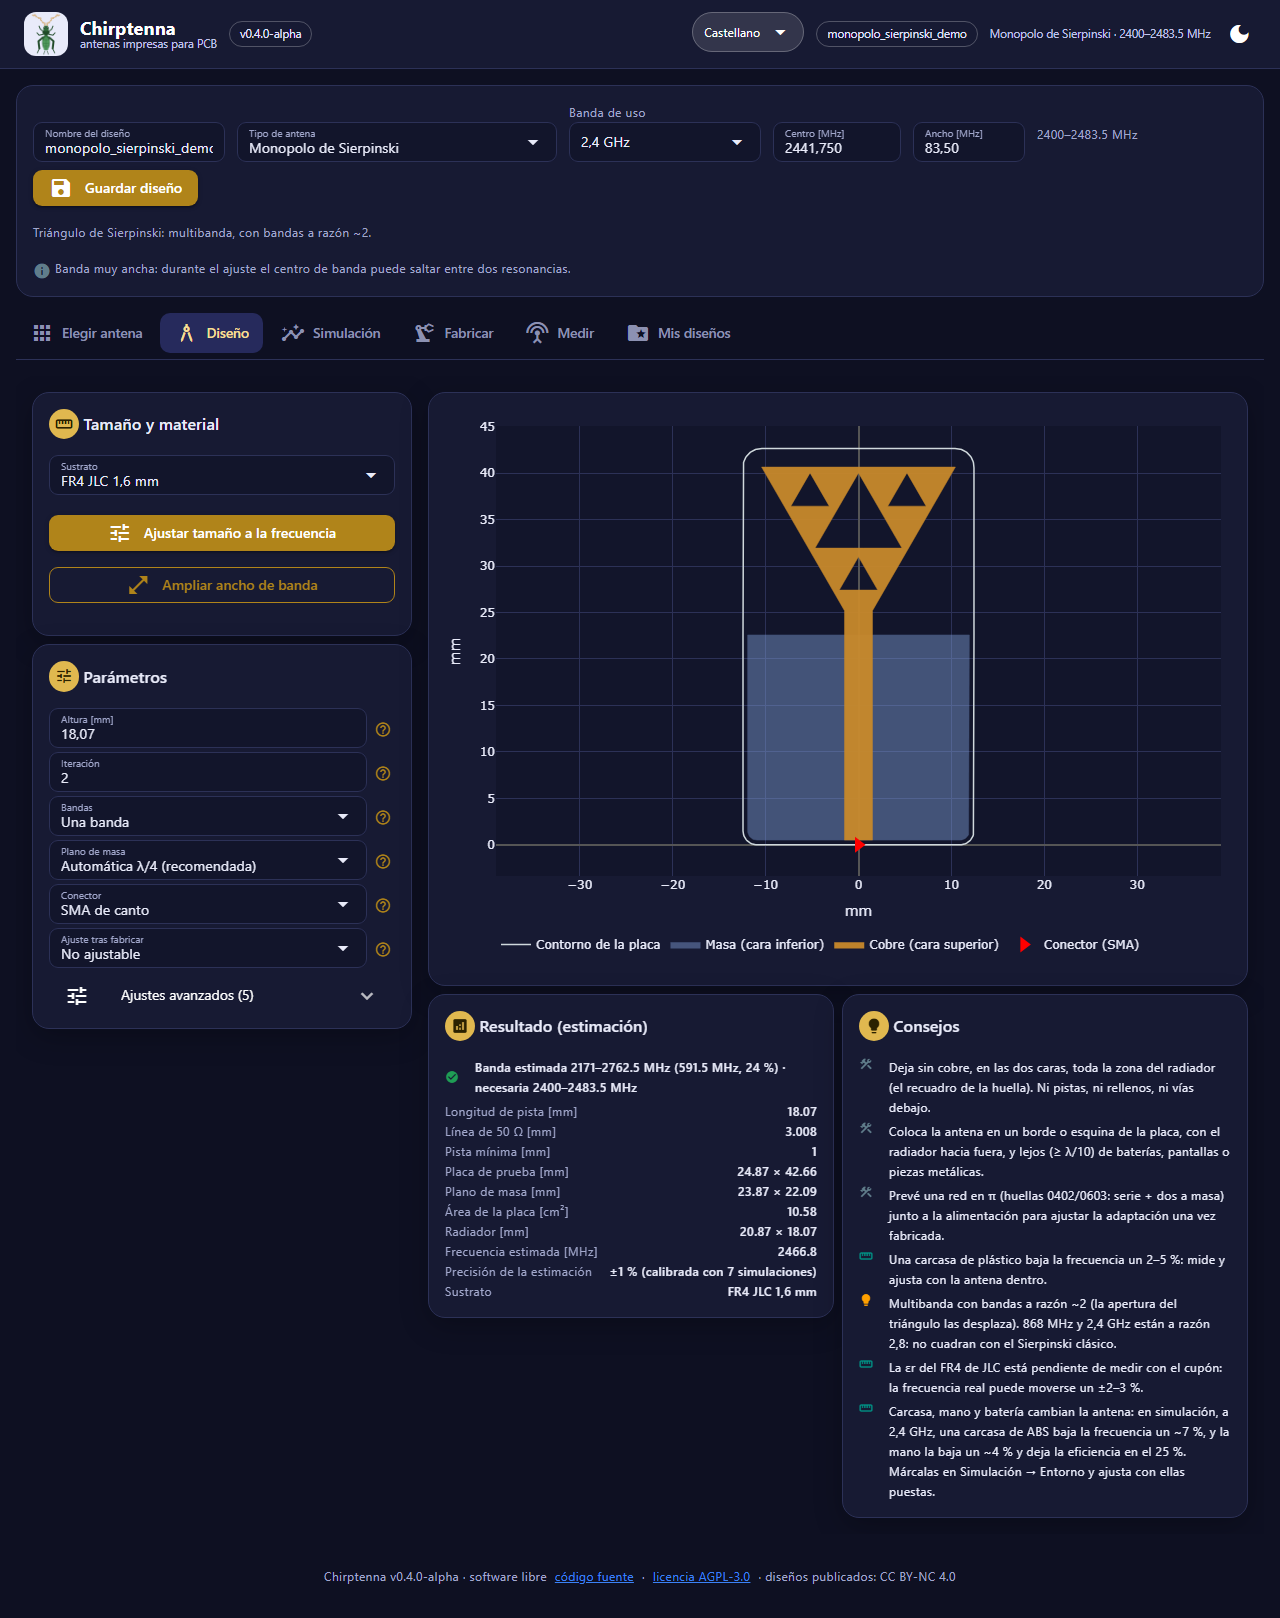
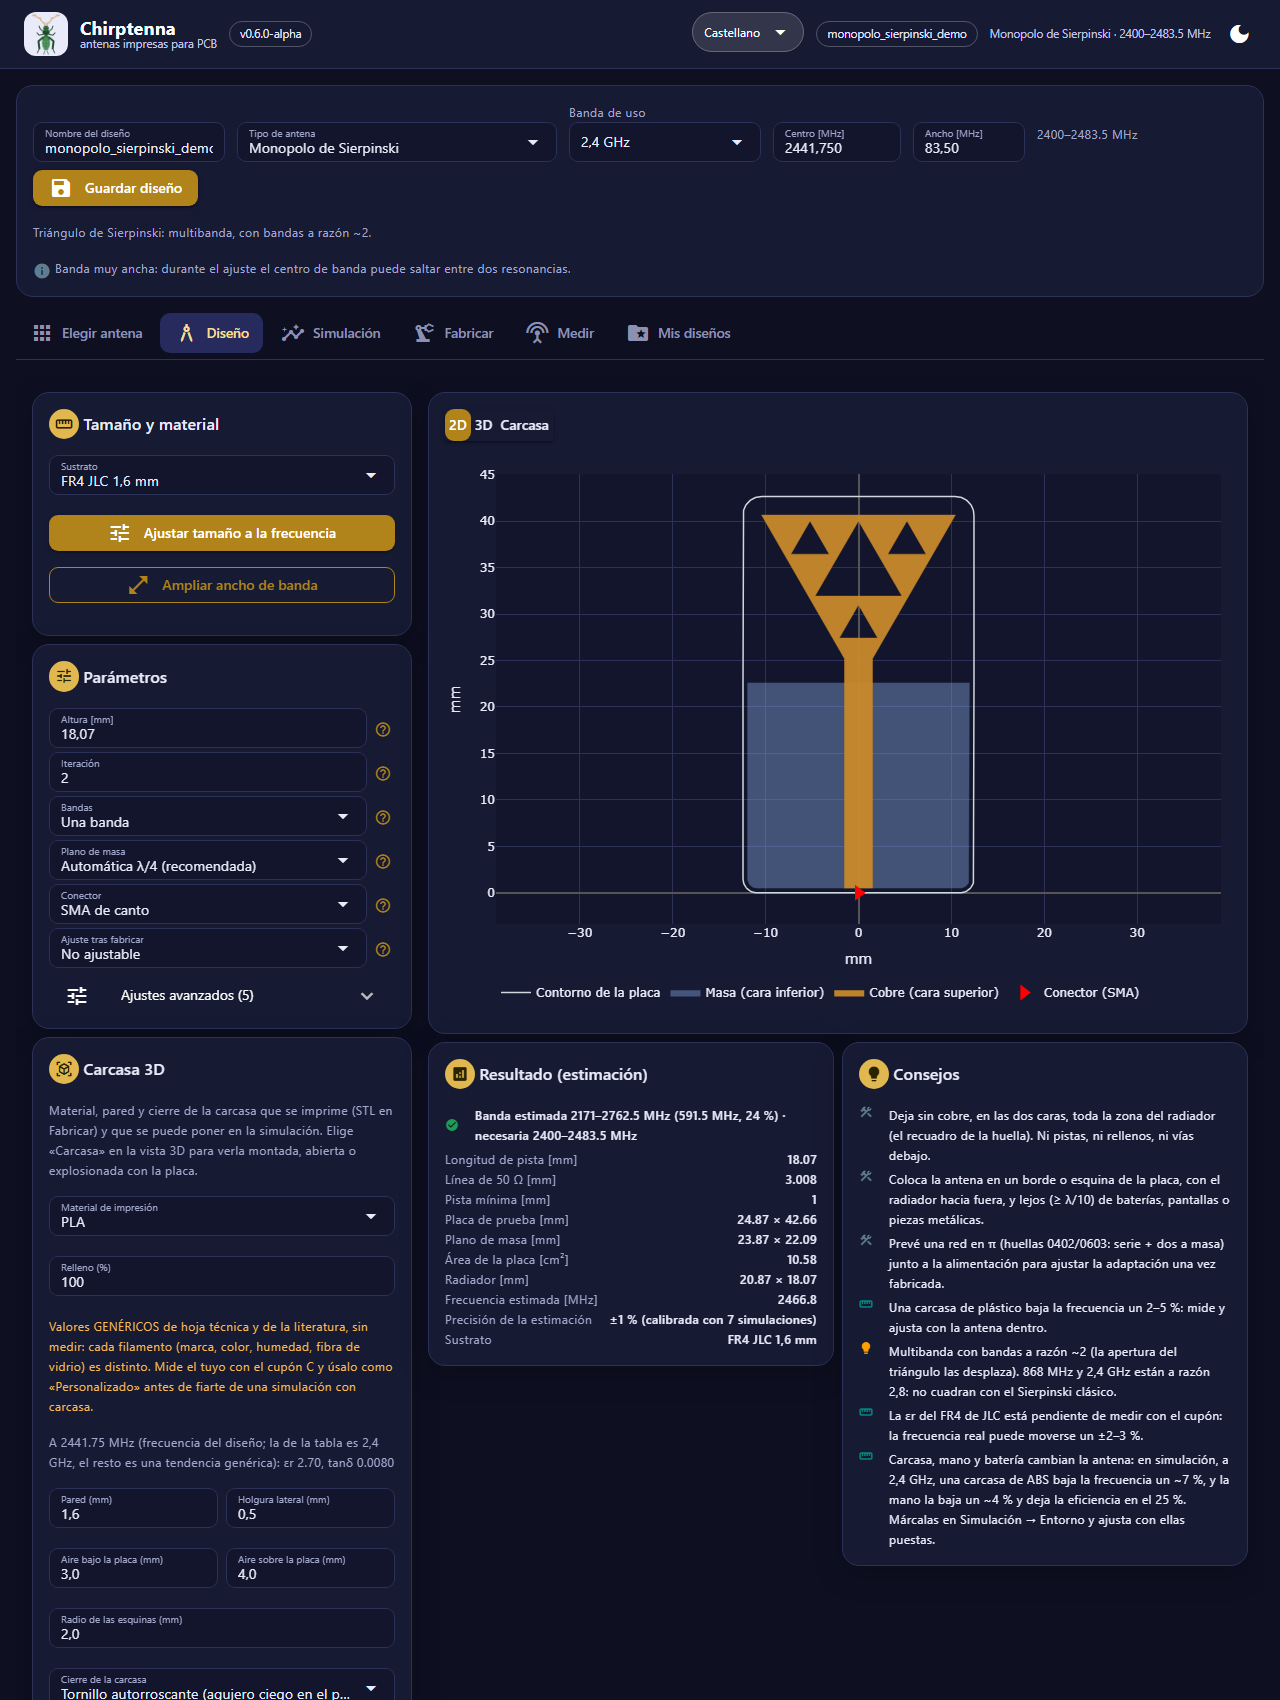
Capturas de la 0.6.0, consejo de la er al dia y CHANGELOG listo para la etiqueta
Capturas del README rehechas con herramientas/lanzar_app_claude.py (deshace
la virtualizacion de rutas de la sesion de Claude para que Plotly cargue).
El consejo y la nota del FR4 dicen que la er no esta cerrada (4,2-5,0 en las
placas medidas). Lo de Sin publicar pasa a la seccion 0.6.0-alpha.

diff --git a/herramientas/lanzar_app_claude.py b/herramientas/lanzar_app_claude.py
@@ -1,0 +1,28 @@
+"""Arranca gui/app.py deshaciendo la virtualización de rutas de la app de Claude (lección 49 de CLAUDE.md):
+Path.resolve() de un archivo del venv da ...\\Packages\\Claude_*\\LocalCache\\Local\\..., la de su carpeta no, y NiceGUI da 403
+a Plotly. Solo hace falta en la sesión de Claude; en el ordenador del usuario se lanza gui/app.py directamente.
+
+    python herramientas/lanzar_app_claude.py [argumentos de gui/app.py]        (desde la raíz del proyecto)
+    python herramientas/capturas_readme.py --lanzador herramientas/lanzar_app_claude.py
+"""
+import os
+import pathlib
+import re
+import runpy
+import sys
+
+_LOCAL = os.environ['LOCALAPPDATA']
+_PATRON = re.compile(re.escape(_LOCAL) + r'\\Packages\\Claude_[^\\]+\\LocalCache\\Local', re.IGNORECASE)
+_original = pathlib.Path.resolve
+
+
+def _resolve(self, strict=False):
+    r = _original(self, strict=strict)
+    s = _PATRON.sub(lambda m: _LOCAL, str(r))
+    return type(r)(s) if s != str(r) else r
+
+
+pathlib.Path.resolve = _resolve
+app = os.path.join(os.getcwd(), 'gui', 'app.py')
+sys.argv = [app] + sys.argv[1:]
+runpy.run_path(app, run_name='__main__')

diff --git a/antenas/consejos.py b/antenas/consejos.py
@@ -145,8 +145,8 @@ def consejos(antena, f_obj=None, banda=None):
         out.append(('diseño', tr('Por encima de ~3 GHz el FR4 pierde bastante y su εr varía entre lotes: '
                               'considera RO4350B.')))
     if 'FR4' in sustrato:
-        out.append(('medida', tr('La εr del FR4 de JLC está pendiente de medir con el cupón: la frecuencia real '
-                              'puede moverse un ±2–3 %.')))
+        out.append(('medida', tr('La εr del FR4 de JLC aún no está cerrada: las placas medidas dan entre 4,2 y 5,0 (el programa usa '
+                              '4,5), así que la frecuencia real puede moverse un ±2–3 %.')))
     if 'PTFE' in sustrato:
         out.append(('medida', tr('La εr y la tanδ del PTFE son las del laminador (sin medir) y JLC no publica tolerancias: '
                               'mide la frecuencia real con el cupón. Pide la placa en su servicio de alta frecuencia (2 capas, ENIG).')))

diff --git a/antenas/materiales.py b/antenas/materiales.py
@@ -35,7 +35,7 @@ class Sustrato:
 # εr del FR4: valor de la calculadora de impedancias de JLC para 2 capas (pendiente de
 # medir con el cupón). RO4350B: εr "de diseño" de Rogers (3,66), no la de proceso (3,48).
 SUSTRATOS = {
-    'FR4 JLC 1,6 mm': Sustrato('FR4 JLC 1,6 mm', 4.5, 0.02, 1.6, nota='εr pendiente de medir con el cupón'),
+    'FR4 JLC 1,6 mm': Sustrato('FR4 JLC 1,6 mm', 4.5, 0.02, 1.6, nota='εr 4,5 sin cerrar: las placas medidas dan 4,2–5,0'),
     'FR4 JLC 1,2 mm': Sustrato('FR4 JLC 1,2 mm', 4.5, 0.02, 1.2),
     'FR4 JLC 1,0 mm': Sustrato('FR4 JLC 1,0 mm', 4.5, 0.02, 1.0),
     'FR4 JLC 0,8 mm': Sustrato('FR4 JLC 0,8 mm', 4.5, 0.02, 0.8),

diff --git a/CLAUDE.md b/CLAUDE.md
@@ -356,12 +356,13 @@ archivos modificados después de la última revisión. La marca de esa revisión
     `pestanas` (cada una con su variante `.body--dark`). **Diseño visual (13-11, inspirado en compilador.albacetemesh.es)**: fondo índigo profundo con acentos dorados tipo ENIG (como un PCB; se evitó el verde para no parecerse a Meshtastic), tarjetas de 17 px con borde, cabecera
     con degradado, pestañas en píldora, portada con «eyebrow» en la galería. Todo con variables CSS de `body.body--light`/`body.body--dark` (`--fondo`, `--tarjeta`, `--texto`,
     `--muted`, `--linea`, `--acento`, `--suave`…) en el `ui.add_css` de `gui/app.py`: usar esas variables en lugar de colores sueltos; los campos son `outlined dense` por
-    `default_props`. Tras tocar el CSS hay que **reiniciar el servidor** (no recarga). Las capturas de `docs/capturas/` (README y manuales) se regeneran con `herramientas/capturas_readme.py` (Edge sin ventana por CDP con espera real: `--screenshot` con tiempo virtual o `--timeout` sale a medio pintar y sin Plotly); datan del 14-11 (diseño nuevo).
+    `default_props`. Tras tocar el CSS hay que **reiniciar el servidor** (no recarga). Las capturas de `docs/capturas/` (README y manuales) se regeneran con `herramientas/capturas_readme.py` (Edge sin ventana por CDP con espera real: `--screenshot` con tiempo virtual o `--timeout` sale a medio pintar y sin Plotly); rehechas el 24-11 (0.6.0, con `--lanzador herramientas/lanzar_app_claude.py`).
 49. **Entorno de la sesión de Claude** (no del usuario): el venv `%LOCALAPPDATA%\antenas` lo creó un proceso de la app de
     Claude y vive virtualizado en `AppData\Local\Packages\Claude_…\LocalCache`; `Path.resolve()` de un archivo da esa ruta
     y la de su carpeta no. Consecuencias: NiceGUI responde **403** a sus módulos ESM (Plotly sale en blanco) y pip falla
-    («Resource name escapes package»). Para verificar la interfaz aquí, lanzarla con un envoltorio que acepte las dos
-    rutas en `is_relative_to` (launch.json «escritorio-prueba», script en el scratchpad); los menús de Quasar no se abren
+    («Resource name escapes package»). Para verificar la interfaz aquí, lanzarla con **`herramientas/lanzar_app_claude.py`**
+    (24-11: cambia `Path.resolve` para devolver la ruta sin virtualizar; con él Plotly sale y `capturas_readme.py --lanzador`
+    funciona); los menús de Quasar no se abren
     con el panel del navegador oculto: usar Edge sin ventana por CDP. En el ordenador del usuario no pasa nada de esto.
 48. **Versión web (Pyodide)**: todas las versiones de Pyodide (0.27–0.29) traen shapely 2.0.7 con **GEOS 3.12**, más
     antiguo que el de escritorio, y uniones o diferencias delicadas (Sierpinski, aperturas de `fabricacion.comprobar`)
@@ -541,8 +542,7 @@ archivos modificados después de la última revisión. La marca de esa revisión
     (mismas coordenadas que la simulación: θ desde +Z, φ desde +X) y la flecha del máximo; es lo que se ve en Simulación (sustituye a `graficas.diagrama_3d`, que queda sin uso en la interfaz).
     El grosor se exagera a ≥ 1,2 % del lado mayor (se dice en el título) y la cámara se aleja con la relación de aspecto. En Diseño: conmutador 2D/3D y casilla «Explosionada» (`gui/app.py` → `pintar_diseno`, que sustituye
     a las tres llamadas a `vista.figura_plotly`). **Un generador nuevo con placas no coplanares (diedro, esquina) tendría que devolver cada placa con su posición y giro**: hoy `_placa` solo desplaza en Y. Sin web todavía
-    (la web dibuja en SVG propio). Verificado en el navegador con figuras HTML sueltas, porque en la sesión de Claude Plotly no carga dentro de NiceGUI (lección 49: 403 a los módulos ESM; el envoltorio de la lección 49 ya no existe
-    y la comparación con `is_relative_to` no bastó).
+    (la web dibuja en SVG propio). Verificado en el navegador con figuras HTML sueltas, porque en la sesión de Claude Plotly no carga dentro de NiceGUI (lección 49: 403 a los módulos ESM; desde el 24-11 `herramientas/lanzar_app_claude.py` lo resuelve).
 83. **Colineal con bowtie (16-11)**: `colineal_dipolos` con `forma` = 1 (`dipolos._brazo_colineal`): cada brazo es un triángulo con la punta (ancho `ancho_brazo`) en la línea y el
     mismo ancho que la U (2·(`separacion_patas` + `ancho_brazo`/2)) en el extremo, en vez de barra y dos patas; sirve en una placa y en modular. `estimar_f_colineal_dipolos` multiplica por
     `K_BOWTIE_COLINEAL` = 0,9 (sin calibrar, como el 0,79 del dipolo bowtie con 70°: este triángulo es de ~41°); el largo por defecto sale ~10 % más corto (25,0 frente a 27,8 mm a 2,4 GHz en FR4)

diff --git a/CHANGELOG.md b/CHANGELOG.md
@@ -5,7 +5,9 @@ Formato basado en [Keep a Changelog](https://keepachangelog.com/es-ES/1.1.0/); v
 
 ## [Sin publicar]
 
-*English summary: the interface, the web version, the README file in the download and the manuals no longer say that everything is validated only in simulation: they now say "almost everything" and mention the measured boards.*
+## [0.6.0-alpha] · 2026-11-24
+
+*English summary (0.6.0-alpha): a 3D enclosure generator with material, closure and screw options that is also simulated; plastic-property measurement with open stubs read in S11 (cupón C) for ordinary NanoVNAs; a receive-only (RX) gallery group with new GNSS, ADS-B and UAT bands; fourteen new planar and multi-board types (folded dipole, Moxon, log-periodic, slot, spiral, turnstile, UWB monopoles, circularly polarised patch, series array, SIW, crossed Yagi, dual-band Yagi), most of them still not validated. Simulated results at 2.4 GHz: slot −28.6 dB (η 73 %), folded dipole −16.4 dB, log-periodic −22.7 dB, and a large spiral (27.7 mm radius) with a 3.5 nH series coil that gives circular polarisation (axial ratio ~1 dB) and −19.8 dB across the band. The turnstile, the Moxon and the series array do not work yet. First real measurements (22-11, NanoVNA): coupons A and B and two manufactured antennas, a Sierpinski monopole (resonates 1.0 % above the simulation) and a Yagi (+3.6 %, half the simulated bandwidth); the new types of this release are still simulation-only. The interface, the web version and the manuals now say "almost everything is validated only in simulation" and mention the measured boards; the spiral and turnstile exports pass the stricter DRC of KiCad 10.0.8.*
 
 ### Corregido (24-11)
 
@@ -17,11 +19,7 @@ Formato basado en [Keep a Changelog](https://keepachangelog.com/es-ES/1.1.0/); v
 - La interfaz, la web, el LÉEME del zip, `MANUAL.md`/`MANUAL.en.md` y `CONTRIBUTING.md` dicen ahora «casi todo validado
   solo en simulación» y citan las medidas del 22-11 (cupones A y B, monopolo de Sierpinski +1,0 %, Yagi +3,6 %).
 - `RETOMAR.md` reescrito con el estado del 24-11 (lo anterior pasa a `docs/desarrollo/historial.md`) y `ROADMAP.md` al
-  día con las tareas de las fases 3 y 4 hechas el 12-11.
-
-## [0.6.0-alpha] · 2026-11-24
-
-*English summary (0.6.0-alpha): a 3D enclosure generator with material, closure and screw options that is also simulated; plastic-property measurement with open stubs read in S11 (cupón C) for ordinary NanoVNAs; a receive-only (RX) gallery group with new GNSS, ADS-B and UAT bands; fourteen new planar and multi-board types (folded dipole, Moxon, log-periodic, slot, spiral, turnstile, UWB monopoles, circularly polarised patch, series array, SIW, crossed Yagi, dual-band Yagi), most of them still not validated. Simulated results at 2.4 GHz: slot −28.6 dB (η 73 %), folded dipole −16.4 dB, log-periodic −22.7 dB, and a large spiral (27.7 mm radius) with a 3.5 nH series coil that gives circular polarisation (axial ratio ~1 dB) and −19.8 dB across the band. The turnstile, the Moxon and the series array do not work yet. First real measurements (22-11, NanoVNA): coupons A and B and two manufactured antennas, a Sierpinski monopole (resonates 1.0 % above the simulation) and a Yagi (+3.6 %, half the simulated bandwidth); the new types of this release are still simulation-only.*
+  día con las tareas de las fases 3 y 4 hechas el 12-11; manual (es/en) con la recepción y las placas medidas.
 
 ### Tipos nuevos y optimizaciones (23–24-11)
 - **Grupo «Solo recepción (RX)»** en la galería (espiral, torniquete, monopolo UWB, UWB coplanar, parche de polarización circular, hélice cuadrifilar) y bandas nuevas: UAT 978 MHz, ADS-B 1090 MHz, GPS L5 y GNSS L1. Centradas en GPU con monopolo, dipolo, bowtie y sleeve (peor S11 en la banda: el bowtie va de −19 a −28 dB en las cuatro; el monopolo y el dipolo recto quedan justos).

diff --git a/RETOMAR.md b/RETOMAR.md
@@ -57,7 +57,7 @@ publicado en cada versión, en [`CHANGELOG.md`](CHANGELOG.md). El diario antiguo
 4. **Medidas en los textos (hecho el 24-11)**: interfaz, web, LÉEME del zip, `MANUAL`, `CONTRIBUTING` y README ya dicen
    «casi todo validado solo en simulación» y citan las medidas. Al medir más placas, actualizar esas frases, la tabla
    «Problemas conocidos» de los README y `docs/desarrollo/placas_pedidas_2G4.md`.
-5. **Capturas del README** (`herramientas/capturas_readme.py`): son del 14-11 y no muestran la galería actual.
+5. **Capturas del README**: rehechas el 24-11 (`capturas_readme.py --lanzador herramientas/lanzar_app_claude.py`).
 6. Otras ideas y tareas sin fecha: ROADMAP («Ideas a más largo plazo» y fases 2–5).
 
 ## Cómo ejecutar
